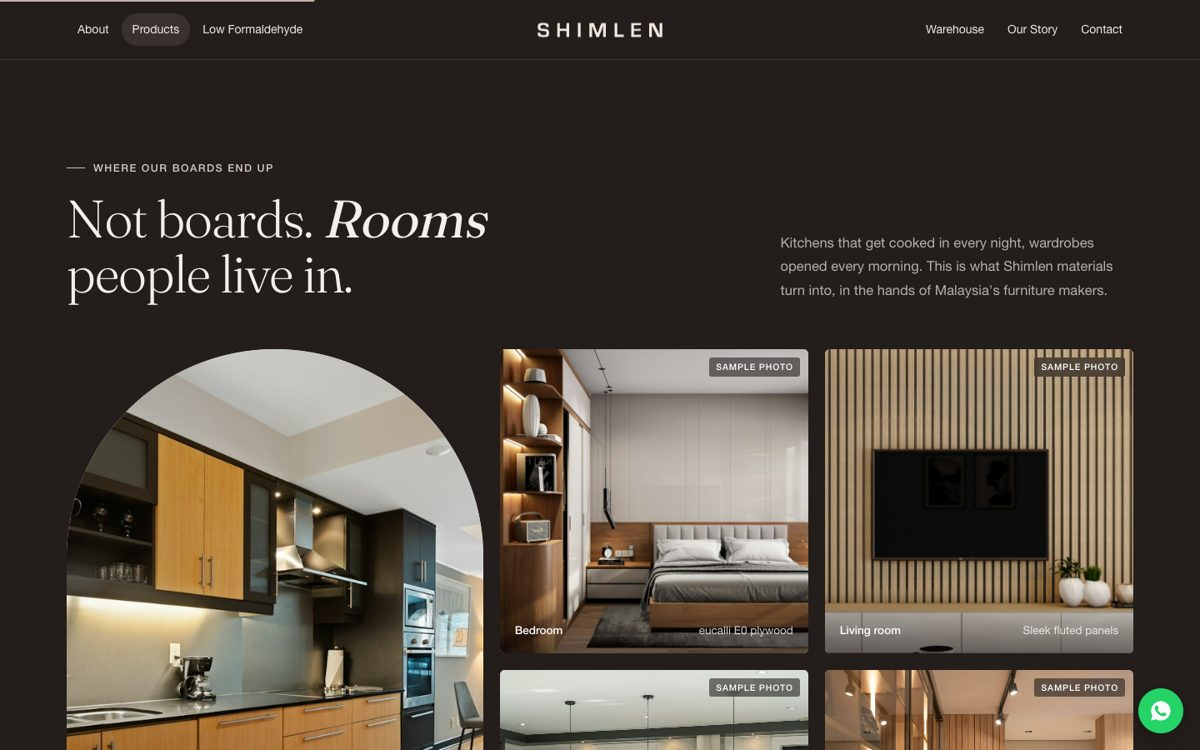
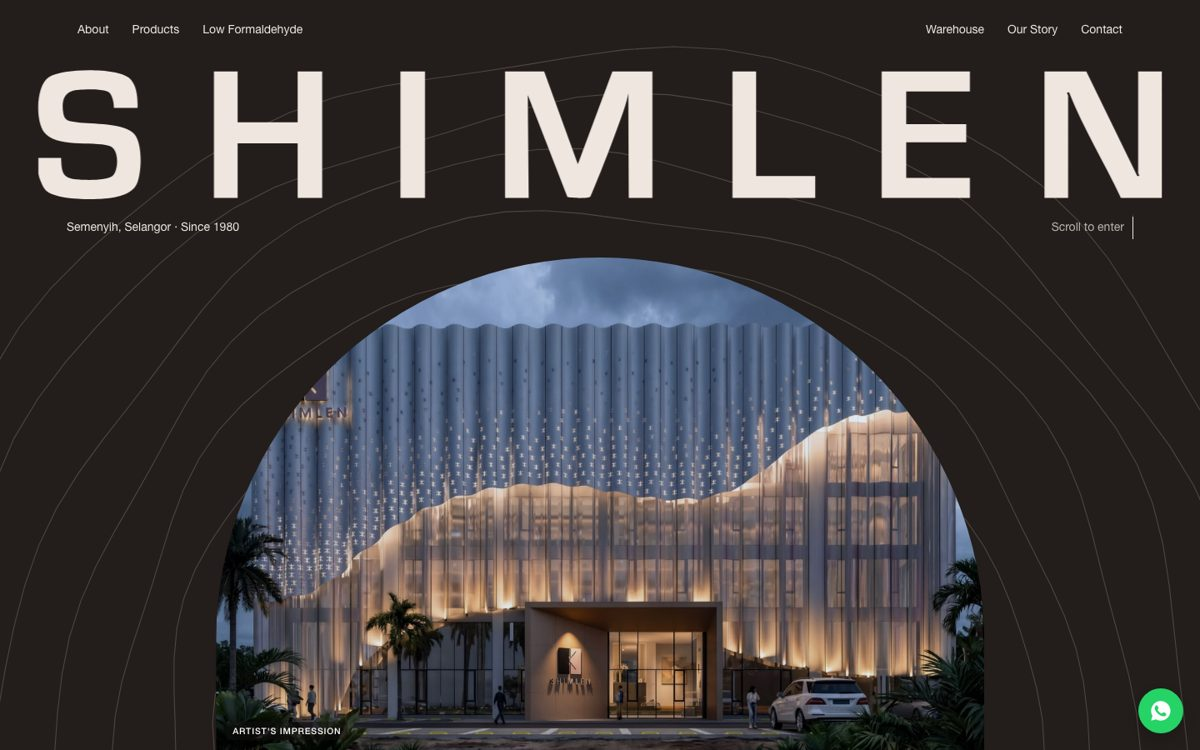
Revamps: new-building renders, a different opening per design, premium imagery

diff --git a/shared/soul.js b/shared/soul.js
@@ -1,21 +1,22 @@
 /* Revamp layer, loaded after data.js on the revamp pages only.
    1. Swaps Shimlen's site photos for stock sample photos (the client asked for samples until their photoshoot).
       The hero and warehouse films are swapped for sample footage of the same kind (aerial site, warehouse floor).
-  2. Writes four story sections (rooms, board to room, people, belief) that each design themes with --sl-* tokens.
+  2. Writes story sections (rooms, board to room, people, belief) that each design themes with --sl-* tokens.
    3. Tags every stock picture "Sample photo". */
 (function () {
   const S = window.SH, K = 'img/stock/';
   window.VIDEO_DIR = 'video/stock/'; /* sample drone and warehouse footage (Pexels) instead of Shimlen's own */
-  S.about.img = K + 'wh-panels.jpg';
-  S.about.caption = 'Sample photo · our warehouse will be photographed after the move';
-  S.warehouse.gallery = [[K + 'wh-racking.jpg', 'Racking, floor to ceiling'], [K + 'wh-panels.jpg', 'Panels ready to go'], [K + 'wh-people.jpg', 'Our floor team']];
+  const RD = 'img/renders/'; /* the client's renders of the planned new building */
+  S.about.img = RD + 'new-corner-tropical.jpg';
+  S.about.caption = 'Artist\'s impression · our new building, under construction next door';
+  S.warehouse.gallery = [[RD + 'new-corner.jpg', 'The new building'], [K + 'boards.jpg', 'Boards stacked and ready'], [RD + 'new-night.jpg', 'The new front, at night']];
 
-  const ROOMS = [['kitchen.jpg', 'Kitchen', 'Melamine faced chipboard'], ['bedroom.jpg', 'Bedroom', 'eucalli E0 plywood'], ['tvwall.jpg', 'Living room', 'Sleek fluted panels'],
-    ['island.jpg', 'Kitchen island', 'High pressure laminates'], ['hall.jpg', 'Hallway', 'Lacquered laminate panels']];
+  const ROOMS = [['kitchen-dark.jpg', 'Kitchen', 'Melamine faced chipboard'], ['bedroom.jpg', 'Bedroom', 'eucalli E0 plywood'], ['tvwall.jpg', 'Living room', 'Sleek fluted panels'],
+    ['island.jpg', 'Kitchen island', 'High pressure laminates'], ['study.jpg', 'Study', 'Lacquered laminate panels']];
   const STEPS = [['boards.jpg', 'The core', 'It starts inside, where no one looks. A plywood or E0 core, cut true, that holds a screw for years and keeps a long door flat.', 'Plywood · eucalli E0 · melamine faced plywood'],
-    ['opaq.jpg', 'The surface', 'Then the face you live with every day. Woodgrain, stone, solid colour, in finishes you can feel.', '400+ MFC decors · 500+ HPL decors · OPAQ ultra-matt'],
+    ['surface.jpg', 'The surface', 'Then the face you live with every day. Woodgrain, stone, solid colour, in finishes you can feel.', '400+ MFC decors · 500+ HPL decors · OPAQ ultra-matt'],
     ['veneer.jpg', 'The edge', 'Then the edge your hand finds first. Matched to the decor and bent round the curves, so the piece reads as one.', '500+ edgeband colours · Flexi edge for curves'],
-    ['kitchen.jpg', 'The room', 'And then it becomes someone\'s kitchen. The carpenter takes the credit, as they should. We make sure the boards were right.', 'Delivered in 24 hours* across the Klang Valley']];
+    ['kitchen-dark.jpg', 'The room', 'And then it becomes someone\'s kitchen. The carpenter takes the credit, as they should. We make sure the boards were right.', 'Delivered in 24 hours* across the Klang Valley']];
   const R = () => window.ROOT || '../';
   const img = (f, alt, lazy = true) => `<img src="${R()}${K}${f}" alt="${alt}"${lazy ? ' loading="lazy"' : ''}>`;
 
@@ -38,6 +39,21 @@
         <ul class="who"><li><b>Carpenters</b><span>The right board, cut to size, on site tomorrow.</span></li><li><b>Furniture makers</b><span>Decors and edgebands matched, in volume.</span></li><li><b>Designers</b><span>Samples in hand before the client meeting.</span></li></ul>
         <a class="sl-link" href="#contact">Talk to our team</a></div></div></section>`,
 
+    /* the new building, three ways: a card (Open), an arch at night (Heartwood), an index of views (Studio) */
+    home: (cls = '', kind = 'card') => {
+      const lab = `<div class="sl-lab">What comes next</div><h2 class="sl-h">Our next home is already <em>rising.</em></h2>`,
+        txt = `On the lot next to our warehouse in Bandar Teknologi Kajang, a new Shimlen building is under construction. More room for stock, a brighter front door for our customers, and a façade with the same fluted rhythm as the panels we sell.`,
+        h = lab + `<p class="sl-p" style="margin-top:22px">${txt}</p>`;
+      const r = (f, alt) => `<img src="${R()}${RD}${f}" alt="${alt} (artist's impression)" loading="lazy">`;
+      if (kind === 'index') return `<section class="sl sl-home idx ${cls}" id="new-home"><div class="sl-w">
+        <div class="sl-top"><div>${lab}</div><p class="sl-p">${txt}</p></div>
+        <div class="sl-idx">${[['new-front-dawn.jpg', 'Front, at dawn'], ['new-corner-tropical.jpg', 'Corner, from the car park'], ['new-front-mist.jpg', 'Front, morning mist'], ['new-night.jpg', 'Front, at night']].map(([f, c], i) => `<figure class="rnd">${r(f, c)}<figcaption><span>0${i + 1}</span>${c}</figcaption></figure>`).join('')}</div></div></section>`;
+      if (kind === 'arch') return `<section class="sl sl-home arch ${cls}" id="new-home"><div class="sl-w sl-ppl">
+        <div class="pic rnd">${r('new-night.jpg', 'The new Shimlen building at night')}</div><div>${h}<a class="sl-link" href="#contact">Visit us</a></div></div></section>`;
+      return `<section class="sl sl-home ${cls}" id="new-home"><div class="sl-w"><div class="sl-card">
+        <div class="pic rnd">${r('new-front-dusk.jpg', 'The new Shimlen building at dusk')}</div><div class="tx">${h}<a class="sl-link" href="#contact">Visit us</a></div></div></div></section>`
+    },
+
     belief: (cls = '') => `<section class="sl sl-belief ${cls}"><div class="sl-w"><div class="sl-lab">What we believe</div>
       <p>Good boards <em>disappear</em> into good rooms.</p>
       <div class="sl-p">No one admires the plywood inside a wardrobe. They notice the door still closes straight ten years on. That is the part we look after.</div></div></section>`
@@ -57,13 +73,41 @@
       if (parseFloat(getComputedStyle(A).paddingBottom) < 40 && !media(A)) A.style.paddingBottom = gap
     }
   }
+  /* hero openings, each with its own character:
+     slow   – two views drift in slowly and cross-fade (Open)
+     still  – one view, nothing moves (Studio)
+     night  – the lit building, revealed by the page's own arch (Heartwood)
+     blinds – views change through vertical strips, like the fluted façade (Quiet) */
+  function reel(id, mode, files) {
+    const box = document.getElementById(id); if (!box) return;
+    const rm = matchMedia('(prefers-reduced-motion: reduce)').matches;
+    box.classList.add('rr', 'rr-' + mode, 'rnd');
+    box.insertAdjacentHTML('afterbegin', files.map((f, i) => `<figure class="${i ? '' : 'on'}"><img src="${R()}${RD}${f}" alt="Shimlen's new building (artist's impression)"${i ? ' loading="lazy"' : ' fetchpriority="high"'}></figure>`).join(''));
+    if (files.length < 2 || rm || mode === 'still' || mode === 'night') return;
+    const fs = [...box.querySelectorAll('figure')]; let c = 0;
+    if (mode === 'slow') { setInterval(() => { fs[c].classList.remove('on'); c = (c + 1) % fs.length; fs[c].classList.add('on') }, 9000); return }
+    /* blinds: twelve strips close over the picture in a wave, carrying the next view */
+    const N = innerWidth < 700 ? 6 : 12, bl = document.createElement('div'); bl.className = 'rr-bl'; box.appendChild(bl);
+    const go = () => {
+      const n = (c + 1) % fs.length, src = fs[n].querySelector('img').src, W = box.clientWidth;
+      bl.innerHTML = Array.from({length: N}, (_, i) => `<i style="left:${i * 100 / N}%;width:${100 / N + .2}%"><img src="${src}" alt="" style="width:${W}px;left:${-i * W / N}px"></i>`).join('');
+      const st = [...bl.children];
+      gsap.fromTo(st, {clipPath: i => i % 2 ? 'inset(100% 0 0 0)' : 'inset(0 0 100% 0)'}, {clipPath: 'inset(0% 0 0% 0)', duration: 1.1, ease: 'expo.inOut', stagger: .06,
+        onComplete: () => { fs[c].classList.remove('on'); c = n; fs[c].classList.add('on'); bl.innerHTML = '' }})
+    };
+    setInterval(go, 6000)
+  }
   function init() {
+    /* the warehouse film becomes a still: the stock factory footage wasn't strong enough */
+    const wf = document.getElementById('whFilm');
+    if (wf) { wf.id = 'whStill'; wf.classList.add('smp'); wf.insertAdjacentHTML('afterbegin', `<img class="still" src="${R()}${K}lumber.jpg" alt="Timber racked and ready to go (sample photo)" loading="lazy">`) }
     breathe();
+    document.querySelectorAll('img[src*="/' + RD + '"]').forEach(i => { const p = i.parentElement; if (!p.closest('.rnd')) p.classList.add('rnd'); if (getComputedStyle(p).position === 'static') p.style.position = 'relative' });
     /* sample tags on any stock picture the page itself rendered */
     document.querySelectorAll(`img[src*="/${K}"]`).forEach(i => { const p = i.parentElement; if (!p.closest('.smp')) p.classList.add('smp') });
     document.querySelectorAll('.smp').forEach(e => { if (getComputedStyle(e).position === 'static') e.style.position = 'relative' });
     /* sample tag on the films */
-    ['heroReel', 'whFilm'].forEach(id => { const b = document.getElementById(id); if (!b) return; b.classList.add('smpv'); if (getComputedStyle(b).position === 'static') b.style.position = 'relative' });
+    ['heroReel'].forEach(id => { const b = document.getElementById(id); if (!b) return; b.classList.add('smpv'); if (getComputedStyle(b).position === 'static') b.style.position = 'relative' });
     /* board to room: the step in the middle of the screen turns the picture */
     const st = [...document.querySelectorAll('.sl-step')], fs = [...document.querySelectorAll('.sl-pics figure')], n = document.querySelector('.sl-n'); let c = 0;
     if (!st.length) return;
@@ -74,9 +118,9 @@
     st.forEach(s => io.observe(s))
   }
   /* put a section before an element with this id (or append to main) */
-  function place(name, beforeId, cls) {
-    const t = beforeId && document.getElementById(beforeId), h = html[name](cls);
+  function place(name, beforeId, cls, kind) {
+    const t = beforeId && document.getElementById(beforeId), h = html[name](cls, kind);
     if (t) t.insertAdjacentHTML('beforebegin', h); else document.getElementById('app').insertAdjacentHTML('beforeend', h)
   }
-  window.Soul = {html, init, place, ROOMS, STEPS}
+  window.Soul = {html, init, place, reel, ROOMS, STEPS}
 })();

diff --git a/revamp-4/index.html b/revamp-4/index.html
@@ -65,7 +65,7 @@ body.menu-open .menu{transform:none}
 .reel img{width:100%;height:100%;object-fit:cover;transform:scale(1.12)}
 .reel figure.on img{animation:kb 9s linear forwards}
 @keyframes kb{from{transform:scale(1.12)}to{transform:scale(1)}}
-.hero .shade{position:absolute;inset:0;background:linear-gradient(180deg,rgba(18,14,12,.5),rgba(18,14,12,.32) 38%,rgba(18,14,12,.34) 62%,rgba(18,14,12,.62))}
+.hero .shade{position:absolute;inset:0;background:linear-gradient(180deg,rgba(18,14,12,.62),rgba(18,14,12,.3) 22%,rgba(18,14,12,.38) 45%,rgba(18,14,12,.4) 62%,rgba(18,14,12,.62))}
 .hero .sub{font-size:clamp(15px,1.2vw,17px);max-width:44ch;color:rgba(255,255,255,.88);margin-top:-6px}
 .hero h1 em.i{font-size:1.08em}
 .h-cap{position:absolute;left:0;right:0;bottom:34px;width:var(--wrap);margin:0 auto;display:flex;align-items:center;gap:18px;font-size:12.5px;letter-spacing:.06em;color:rgba(255,255,255,.88)}
@@ -356,7 +356,7 @@ footer a:hover{color:var(--fg)}
 const {ic,R}=Core,S=SH,P=S.products.list,Y=S.story.years,
   USE=['stock/plywood.jpg','stock/mfc.jpg','stock/hpl.jpg','stock/opaq.jpg','stock/sleek.jpg','stock/edgeband.jpg','stock/envplas.jpg','stock/flexi.jpg','stock/mfp.jpg'];
 const STEPS=[['stock/boards.jpg','The core','It starts inside, where no one looks. A plywood or E0 core, cut true, that holds a screw for years and keeps a long door flat.','Plywood · eucalli E0 · melamine faced plywood'],
-    ['stock/opaq.jpg','The surface','Then the face you live with every day. Woodgrain, stone, solid colour, in finishes you can feel.','400+ MFC decors · 500+ HPL decors · OPAQ ultra-matt'],
+    ['stock/surface.jpg','The surface','Then the face you live with every day. Woodgrain, stone, solid colour, in finishes you can feel.','400+ MFC decors · 500+ HPL decors · OPAQ ultra-matt'],
     ['stock/veneer.jpg','The edge','Then the edge your hand finds first. Matched to the decor and bent round the curves, so the piece reads as one.','500+ edgeband colours · Flexi edge for curves'],
     ['stock/island.jpg','The room','And then it becomes someone\'s kitchen. The carpenter takes the credit, as they should. We make sure the boards were right.','Delivered in 24 hours* across the Klang Valley']];
 const nav=S.nav.map(([t,id])=>`<a href="#${id}">${t}</a>`).join('');
@@ -366,8 +366,8 @@ document.getElementById('hLogo').innerHTML=SHIMLEN_LOGO;
 const more=(t='Find out more')=>`<span class="more">${t}</span>`;
 
 document.getElementById('app').innerHTML=`
-<section class="hero" id="top"><div class="reel" id="heroReel"></div><div class="shade"></div>
-  <div class="h-c"><div class="lab light">Since 1980 · 10,000 sq m in Semenyih, Selangor</div><h1>Every room starts with a <em class="i">board.</em></h1>
+<section class="hero" id="top"><div class="reel" id="rReel"></div><div class="shade"></div>
+  <div class="h-c"><div class="lab light">Since 1980 · Semenyih, Selangor</div><h1>Every room starts with a <em class="i">board.</em></h1>
     <p class="sub">Plywood, laminates, edgebands and panels for Malaysia's furniture makers, in stock and ready to go.</p><a href="#spaces" class="btn-o light">Find out more</a></div>
   <a class="cue" href="#about" aria-label="Scroll down"><span></span></a></section>
 
@@ -426,7 +426,7 @@ document.getElementById('app').innerHTML=`
 <div class="points">${S.warehouse.points.map(([i,t])=>`<div>${ic('i-'+i)}${t}</div>`).join('')}</div>
 
 <section style="padding-bottom:0">
-  <div class="frame"><div class="pic m"><img src="${R}img/stock/wh-racking.jpg" alt="Warehouse racking (sample photo)" loading="lazy"></div>
+  <div class="frame"><div class="pic m"><img src="${R}img/renders/new-corner-tropical.jpg" alt="Shimlen's new building (artist's impression)" loading="lazy"></div>
     <div class="card"><div class="lab">Our story</div><h2 class="h">Since <em class="i">1980</em></h2><p class="s">Founded to supply furniture makers, Shimlen has moved three times to keep up with them. Our home since 2017 is Bandar Teknologi Kajang, with a new building rising next door.</p><a class="more" href="#story">Find out more</a></div></div>
 </section>
 
@@ -479,7 +479,7 @@ document.getElementById('foot').innerHTML=`<div class="f-grid">
 </div>
 <div class="f-bot"><div class="l"><span>${S.footer.legal}</span><span>Privacy notice</span><span>Terms</span></div>
   <div class="social"><a href="#" aria-label="Facebook">${ic('fb','fill')}</a><a href="#" aria-label="Instagram">${ic('ig','fill')}</a><a href="#" aria-label="Xiaohongshu">${ic('xhs','fill')}</a></div></div>
-<p class="note">Pictures and films marked “Sample” are placeholders (Unsplash, Pexels), to be replaced with Shimlen's own photos after the photoshoot.</p>`;
+<p class="note">Photos marked “Sample photo” are placeholders (Unsplash), to be replaced after the photoshoot. Building views marked “Artist's impression” are renders of Shimlen's planned new building.</p>`;
 
 /* timeline: pick a year; the card sits under its dot */
 (function(){const card=document.getElementById('ysCard'),ln=document.getElementById('ysLine'),bs=[...ln.querySelectorAll('button')];let cur=-1;
@@ -496,6 +496,8 @@ document.getElementById('foot').innerHTML=`<div class="f-grid">
 (function(){const st=[...document.querySelectorAll('.ss-step')],fs=[...document.querySelectorAll('.ss-pics figure')],n=document.getElementById('ssN');let c=0;
   const io=new IntersectionObserver(es=>es.forEach(e=>{if(!e.isIntersecting)return;const i=+e.target.dataset.i;if(i===c)return;
     st.forEach((s,j)=>s.classList.toggle('on',j===i));fs.forEach((f,j)=>{f.classList.toggle('was',j<i);f.classList.toggle('on',j===i)});c=i;n.textContent='0'+(i+1)}),{rootMargin:'-45% 0px -45% 0px'});st.forEach(s=>io.observe(s))})();
+/* Quiet · youthful: the views change through vertical strips, the same rhythm as the new fluted façade */
+Soul.reel('rReel','blinds',['new-front-dusk.jpg','new-corner-tropical.jpg','new-front-mist.jpg','new-night.jpg']);
 Soul.init();
 Core.init();
 const bar=(r,b)=>{Core.rail(document.getElementById(r),document.getElementById(b+'Prev'),document.getElementById(b+'Next'));

diff --git a/index.html b/index.html
@@ -44,7 +44,7 @@ footer{border-top:1px solid var(--line);padding:22px 0 30px;font-size:13px;color
   <header><img src="img/logo-horizontal.svg" alt="Shimlen"></header>
   <div class="intro">
     <div><small>New website · design directions</small><h1>Eight looks for the new Shimlen website.</h1></div>
-    <p>Two sets of four. The originals use Shimlen's own photos and films. The revamps keep each design's look, add more story, and use sample photos and drone footage until the photoshoot at the new factory, so the scale still comes through.</p>
+    <p>Two sets of four. The originals use Shimlen's own photos and films. The revamps keep each design's look, add more story, and open on renders of the new building, with sample photos elsewhere until the photoshoot, so the scale and ambition still come through.</p>
   </div>
   <div class="grp"><h3>Set A · Originals</h3><span>Shimlen's own photos and films</span></div>
   <div class="opts">
@@ -61,19 +61,19 @@ footer{border-top:1px solid var(--line);padding:22px 0 30px;font-size:13px;color
       <div class="n">Option 4</div><h2>Quiet</h2><p>Laid out like Finsa. A full film with one line, rooms and words that interlock, a range slider, and a dotted timeline.</p>
       <span class="go">View option 4 <svg viewBox="0 0 24 24" fill="none" stroke="currentColor" stroke-width="2" stroke-linecap="round" stroke-linejoin="round"><path d="M5 12h14M13 6l6 6-6 6"/></svg></span></a>
   </div>
-  <div class="grp"><h3>Set B · Revamped</h3><span>Same designs, more story · pictures and films marked “Sample” are placeholders</span></div>
+  <div class="grp"><h3>Set B · Revamped</h3><span>Same designs, more story · pictures marked “Sample” or “Artist's impression” are placeholders</span></div>
   <div class="opts">
     <a class="opt" href="revamp-1/index.html"><div class="th"><img src="previews/revamp-1.jpg" alt="Revamp 1 preview"></div>
-      <div class="n">Revamp 1</div><h2>Open</h2><p>Open, with a story added: finished rooms, a scroll from board to room, the carpenters and designers we work for, and one line on what Shimlen believes.</p>
+      <div class="n">Revamp 1</div><h2>Open</h2><p>Open, slow and calm. No loading screen: the new building drifts into view at dawn and fades to dusk. Then finished rooms, the people we work for, and our next home.</p>
       <span class="go">View revamp 1 <svg viewBox="0 0 24 24" fill="none" stroke="currentColor" stroke-width="2" stroke-linecap="round" stroke-linejoin="round"><path d="M5 12h14M13 6l6 6-6 6"/></svg></span></a>
     <a class="opt" href="revamp-2/index.html"><div class="th"><img src="previews/revamp-2.jpg" alt="Revamp 2 preview"></div>
-      <div class="n">Revamp 2</div><h2>Heartwood</h2><p>Heartwood, with the same story told in arches: rooms on dark walnut, board to room on cream, and the people who build.</p>
+      <div class="n">Revamp 2</div><h2>Heartwood</h2><p>Heartwood, dramatic. Tree rings draw in, then the arch opens onto the new building lit up at night. Board to room is told in arches.</p>
       <span class="go">View revamp 2 <svg viewBox="0 0 24 24" fill="none" stroke="currentColor" stroke-width="2" stroke-linecap="round" stroke-linejoin="round"><path d="M5 12h14M13 6l6 6-6 6"/></svg></span></a>
     <a class="opt" href="revamp-3/index.html"><div class="th"><img src="previews/revamp-3.jpg" alt="Revamp 3 preview"></div>
-      <div class="n">Revamp 3</div><h2>Studio</h2><p>Studio, with the story in big tight type: rooms, board to room, people and a closing belief, on the same even grid.</p>
+      <div class="n">Revamp 3</div><h2>Studio</h2><p>Studio, still. Nothing flies in: one fixed view of the new building in morning mist, big tight type, and an index of four views.</p>
       <span class="go">View revamp 3 <svg viewBox="0 0 24 24" fill="none" stroke="currentColor" stroke-width="2" stroke-linecap="round" stroke-linejoin="round"><path d="M5 12h14M13 6l6 6-6 6"/></svg></span></a>
     <a class="opt" href="revamp-4/index.html"><div class="th"><img src="previews/revamp-4.jpg" alt="Revamp 4 preview"></div>
-      <div class="n">Revamp 4</div><h2>Quiet</h2><p>Quiet, told as a story: a drone film with a new line, a scroll from board to room, warm tones and a closing belief.</p>
+      <div class="n">Revamp 4</div><h2>Quiet</h2><p>Quiet, youthful and visual. The views change through vertical strips, like the fluted façade, with finished rooms and board to room.</p>
       <span class="go">View revamp 4 <svg viewBox="0 0 24 24" fill="none" stroke="currentColor" stroke-width="2" stroke-linecap="round" stroke-linejoin="round"><path d="M5 12h14M13 6l6 6-6 6"/></svg></span></a>
   </div>
   <footer><span>Shimlen Sdn. Bhd. · concept for review</span><span>Best viewed on a computer first, then on your phone.</span></footer>

diff --git a/revamp-1/index.html b/revamp-1/index.html
@@ -358,8 +358,7 @@ const order=[8,0,1,2,3,4,5,6,7];
 
 document.getElementById('app').innerHTML=`
 <section class="hero" id="top">
-  <div class="reel" id="heroReel"></div><div class="shade"></div>
-  <svg class="lines" viewBox="0 0 1440 900" preserveAspectRatio="none" aria-hidden="true"><path d="M520 -10 L960 360 L1180 900"/><path d="M1460 120 L960 360 L760 910"/></svg>
+  <div class="reel" id="rReel"></div><div class="shade"></div>
   <div class="wrap h-in">
     <div class="eyebrow rv">${S.hero.eyebrow}</div>
     <h1 class="t split">${S.hero.h1}</h1>
@@ -480,7 +479,8 @@ document.querySelectorAll('#ptabs button').forEach(b=>b.onclick=()=>{document.qu
   const upd=()=>{if(document.documentElement.classList.contains('shot')){ws.forEach(w=>w.classList.add('on'));return}
     const r=el.getBoundingClientRect(),h=innerHeight,p=Math.min(1,Math.max(0,(h*.85-r.top)/(r.height+h*.3)));const n=Math.round(p*ws.length);ws.forEach((w,i)=>w.classList.toggle('on',i<n))};
   document.addEventListener('pagescroll',upd);upd()})();
-Soul.place('rooms','low-formaldehyde');Soul.place('story','warehouse','warm');Soul.place('people','recognition','dk');Soul.place('belief','contact');
+Soul.place('rooms','low-formaldehyde');Soul.place('home','warehouse','warm','card');Soul.place('people','recognition','dk');Soul.place('belief','contact');
+Soul.reel('rReel','slow',['new-front-dawn.jpg','new-front-dusk.jpg']);
 Soul.init();document.getElementById('foot').insertAdjacentHTML('beforeend','<p class="sl-note">Pictures and films marked “Sample” are placeholders (Unsplash, Pexels), to be replaced with Shimlen\'s own photos after the photoshoot.</p>');
 Core.init();
 Core.rail(document.getElementById('yrail'),document.getElementById('yPrev'),document.getElementById('yNext'));
@@ -491,12 +491,13 @@ document.querySelectorAll('.prod').forEach(e=>e.dataset.cursor='View');
 document.querySelectorAll('.gal button,.cert,.rec .cert,.proof button,.euc-media .lay').forEach(e=>e.dataset.cursor='Zoom');
 document.getElementById('yrail').dataset.cursor='Drag';
 document.querySelectorAll('.dark,.ct-info,footer,.qbox,.brands,.hero').forEach(e=>e.setAttribute('data-cur-dark',''));
-Motion.init({intro:'columns',onReady(){if(!Motion.ok)return;
-  gsap.fromTo('.hero .reel',{scale:1.3},{scale:1,duration:2.2,ease:'expo.out'});
-  gsap.fromTo('.h-panel',{xPercent:105},{xPercent:0,duration:1.5,ease:'expo.out',delay:.25});
-  gsap.fromTo('.hero .lines',{opacity:0},{opacity:1,duration:1.2,delay:.5})}});
+/* Open · slow: no loading screen, nothing flies in; the building drifts into view and the copy follows, unhurried */
+Motion.init({intro:'none',onReady(){if(!Motion.ok)return;
+  gsap.fromTo('.hero .reel',{opacity:0},{opacity:1,duration:2.4,ease:'power1.out'});
+  gsap.fromTo('.hero .h-in>*',{opacity:0,y:18},{opacity:1,y:0,duration:1.8,ease:'power2.out',stagger:.35,delay:.6});
+  gsap.fromTo('.h-panel',{opacity:0,y:40},{opacity:1,y:0,duration:2,ease:'power2.out',delay:1.6})}});
 /* hero: the films ease back and the copy lifts away as you leave */
-Motion.scrub(document.querySelectorAll('#heroReel video'),{scale:1,yPercent:0},{scale:1.14,yPercent:8},{trigger:'.hero',start:'top top',end:'bottom top'});
+Motion.scrub(document.querySelectorAll('#rReel'),{yPercent:0},{yPercent:6},{trigger:'.hero',start:'top top',end:'bottom top'});
 Motion.scrub(document.querySelector('.h-in'),{y:0,opacity:1},{y:-140,opacity:0},{trigger:'.hero',start:'top top',end:'70% top'});
 /* frames unmask, cards cascade, labels decode, cards tilt */
 Motion.masks('.ab-img,.gal button,.euc-media,.wh-box,.certs,.qbox,.map');

diff --git a/revamp-3/index.html b/revamp-3/index.html
@@ -361,7 +361,7 @@ const YS=['Founded','Jalan Cheras','MIECO','Importer','Lot 4530','New home','E1 
 
 document.getElementById('app').innerHTML=`
 <section class="hero" id="top" style="padding-bottom:0"><div class="wrap">
-  <div class="reel" id="heroReel"><div class="shade"></div><span class="tag tagl">Semenyih, Selangor</span>
+  <div class="reel" id="rReel"><div class="shade"></div><span class="tag tagl">Semenyih, Selangor</span>
     <div class="grid h-over"><h1 class="big split">${S.hero.h1}</h1>
       <div class="ctas rv"><a href="#products" class="btn btn-white">Explore products ${ic('arrow')}</a><a href="#warehouse" class="btn btn-white">Inside the warehouse ${ic('arrow')}</a></div></div></div>
   <div class="grid h-under">
@@ -482,7 +482,8 @@ document.querySelectorAll('#filters button').forEach(b=>b.onclick=()=>{document.
     document.getElementById('yP').onclick=()=>show(cur-1);document.getElementById('yN').onclick=()=>show(cur+1)};
   bs.forEach(b=>b.onclick=()=>show(+b.dataset.i));show(0)})();
 
-Soul.place('rooms','low-formaldehyde');Soul.place('story','warehouse','stone');Soul.place('people','recognition','dk');Soul.place('belief','contact','stone');
+Soul.place('rooms','low-formaldehyde');Soul.place('home','warehouse','stone','index');Soul.place('people','recognition','dk');
+Soul.reel('rReel','still',['new-front-mist.jpg']);
 Soul.init();document.getElementById('foot').insertAdjacentHTML('beforeend','<p class="sl-note">Pictures and films marked “Sample” are placeholders (Unsplash, Pexels), to be replaced with Shimlen\'s own photos after the photoshoot.</p>');
 Core.init();
 
@@ -490,12 +491,12 @@ Core.init();
 document.querySelectorAll('.prod').forEach(e=>e.dataset.cursor='View');
 document.querySelectorAll('.gal button,.cgrid .cert,.record .cert,.proof button,.lay').forEach(e=>e.dataset.cursor='Zoom');
 document.querySelectorAll('.qs,.rec-line,.h-over').forEach(e=>e.setAttribute('data-cur-dark',''));
-Motion.init({intro:'type',onReady(){if(!Motion.ok)return;
-  gsap.fromTo('#heroReel',{clipPath:'inset(12% 10% 12% 10%)'},{clipPath:'inset(0% 0% 0% 0%)',duration:1.6,ease:'expo.out',clearProps:'clipPath',onComplete:heroScrub})}});
+/* Studio · still: no loading screen, no flying pictures; the building stands still and the type does the work */
+Motion.init({intro:'none'});
 /* hero: the film recedes into a frame while the headline lifts away */
 function heroScrub(){Motion.scrub(document.getElementById('heroReel'),{clipPath:'inset(0% 0% 0% 0%)'},{clipPath:'inset(8% 6% 8% 6%)'},{trigger:'.hero',start:'top top',end:'bottom top'})}
-if(!Motion.ok)heroScrub();
-Motion.scrub(document.querySelector('.h-over h1'),{y:0},{y:-160},{trigger:'.hero',start:'top top',end:'bottom top'});
+
+
 /* big headings drift a little sideways, editorial style */
 document.querySelectorAll('.sec-top h2,.ab h2,.wh-copy h2').forEach((h,i)=>Motion.scrub(h,{xPercent:i%2?-3:3},{xPercent:i%2?3:-3},{}));
 Motion.masks('.ab-img,.euc .media,.yd,.map,.rec-line');

diff --git a/shared/soul.css b/shared/soul.css
@@ -91,3 +91,38 @@
 .sl-note{font-size:12px;opacity:.65;text-align:center;padding:18px 16px 26px}
 .smpv::after{content:"Sample footage";position:absolute;right:14px;bottom:14px;z-index:4;font:500 10.5px/1 "Helvetica Neue",Arial,sans-serif;letter-spacing:.08em;text-transform:uppercase;padding:6px 8px;background:rgba(20,16,15,.55);color:#fff;border-radius:3px;pointer-events:none}
 #heroReel.smpv::after{right:auto;left:14px}
+
+/* client renders of the new building */
+.rnd::after{content:"Artist's impression";position:absolute;left:12px;bottom:12px;z-index:4;font:500 10.5px/1 "Helvetica Neue",Arial,sans-serif;letter-spacing:.08em;text-transform:uppercase;padding:6px 8px;background:rgba(20,16,15,.5);color:#fff;border-radius:3px;pointer-events:none}
+.rr{overflow:hidden}
+.rr figure{position:absolute;inset:0;margin:0;opacity:0}
+.rr figure.on{opacity:1}
+.rr figure img{width:100%;height:100%;object-fit:cover;display:block}
+.rr-slow figure{transition:opacity 2.6s ease-in-out}
+.rr-slow figure img{transform:scale(1.02);transition:transform 12s cubic-bezier(.25,.1,.25,1)}
+.rr-slow figure.on img{transform:scale(1.1)}
+.rr-night figure img{object-position:50% 40%}
+.rr-bl{position:absolute;inset:0;z-index:2;pointer-events:none}
+.rr-bl i{position:absolute;top:0;bottom:0;overflow:hidden;display:block}
+.rr-bl img{position:absolute;top:0;height:100%;max-width:none;object-fit:cover}
+
+/* new home: card (Open) */
+.sl-card{display:grid;grid-template-columns:1.25fr 1fr;gap:0;background:var(--sl-soft);border-radius:var(--sl-r);overflow:hidden}
+.sl-card .pic{position:relative;min-height:440px}
+.sl-card .pic img{position:absolute;inset:0;width:100%;height:100%;object-fit:cover}
+.sl-card .tx{padding:clamp(32px,4.5vw,70px)}
+/* new home: index of views (Studio) */
+.sl-idx{display:grid;grid-template-columns:repeat(4,1fr);gap:clamp(10px,1.2vw,18px)}
+.sl-idx figure{margin:0}
+.sl-idx figure img{width:100%;aspect-ratio:4/5;object-fit:cover;display:block}
+.sl-idx figure.rnd::after{bottom:auto;top:10px}
+.sl-idx figcaption{display:flex;gap:12px;font-size:13.5px;padding-top:12px;border-top:1px solid var(--sl-line);margin-top:12px}
+.sl-idx figcaption span{color:var(--sl-acc);font-variant-numeric:tabular-nums}
+.sl-home .pic img{width:100%;height:100%;object-fit:cover}
+@media (max-width:900px){.sl-card{grid-template-columns:1fr}.sl-card .pic{min-height:0;aspect-ratio:4/3}.sl-idx{grid-template-columns:1fr 1fr}}
+.rr{z-index:0}
+.rr-slow.rnd::after,.rr-blinds.rnd::after{left:auto;right:16px;bottom:auto;top:calc(var(--hh,72px) + 16px)}
+.rr-still.rnd::after{left:auto;right:14px;bottom:auto;top:14px}
+.film>img.still{position:absolute;inset:0;width:100%;height:100%;object-fit:cover;animation:stillKB 24s ease-in-out infinite alternate}
+@keyframes stillKB{from{transform:scale(1)}to{transform:scale(1.08)}}
+@media (prefers-reduced-motion:reduce){.film>img.still,.rr-slow figure img{animation:none;transition:none}}

diff --git a/revamp-2/index.html b/revamp-2/index.html
@@ -401,7 +401,7 @@ document.getElementById('app').innerHTML=`
 <section class="hero" id="top"><div class="h-stick" id="hStick">
   ${rings()}
   <div class="wrap h-intro" id="hIntro"><span><b>${S.hero.eyebrow}</b></span><span class="scroll-cue">Scroll to enter <i></i></span></div>
-  <div class="h-arch" id="hArch"><div class="reel" id="heroReel"></div><div class="shade"></div></div>
+  <div class="h-arch" id="hArch"><div class="reel" id="rReel"></div><div class="shade"></div></div>
   <div class="h-copy"><div class="wrap row">
     <h1 class="serif">${S.hero.h1}</h1>
     <div><p class="lead">${S.hero.lead}</p><div class="btns"><a href="#products" class="btn">${ring()}Explore products</a><a href="#warehouse" class="btn">${ring()}Inside the warehouse</a></div></div>
@@ -539,7 +539,8 @@ document.querySelectorAll('#ptabs button').forEach(b=>b.onclick=()=>{document.qu
     hdr.classList.toggle('solid',q>=.98||y>hero.offsetHeight-L.H-10)};
   lay();set();addEventListener('resize',()=>{lay();set()});document.addEventListener('pagescroll',set);addEventListener('scroll',set,{passive:true})})();
 
-Soul.place('rooms','low-formaldehyde','dk arch');Soul.place('story','warehouse','arch');Soul.place('people','recognition','dk arch');Soul.place('belief','contact','arch');
+Soul.place('story','warehouse','arch');Soul.place('home','recognition','dk arch','arch');Soul.place('belief','contact','arch');
+Soul.reel('rReel','night',['new-night.jpg']);
 Soul.init();document.getElementById('foot').insertAdjacentHTML('beforeend','<p class="sl-note">Pictures and films marked “Sample” are placeholders (Unsplash, Pexels), to be replaced with Shimlen\'s own photos after the photoshoot.</p>');
 Core.init();
 Core.rail(document.getElementById('prail'),document.getElementById('pPrev'),document.getElementById('pNext'));
